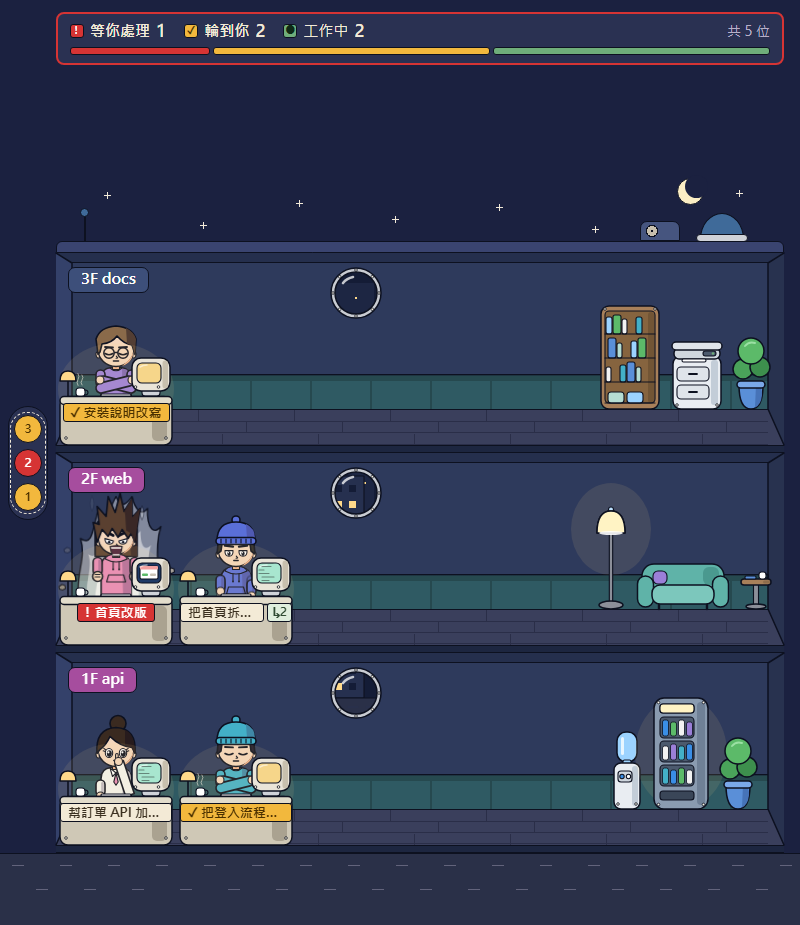
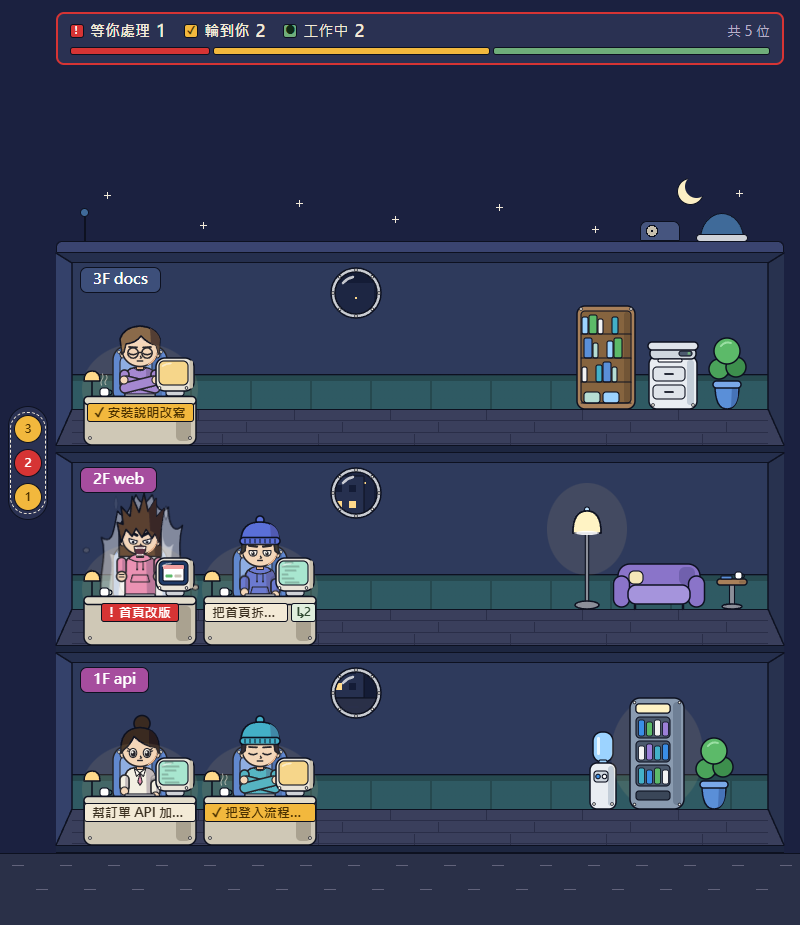
feat: 補上藍色椅子、沙發改紫色、放大螢幕畫面，桌子和家具離兩側斜牆留空間
- 每張桌子後面一把藍色椅子（新的 chairs 圖層，在人後面，空桌也有）；不用藍綠，免得和護牆板混在一起
- 沙發同樣的理由從藍綠改成紫色，抱枕改成奶油色
- 映像管外殼大小不變，畫面放大、邊框變窄
- 桌子、招牌、家具區離樓層左右緣各留 24（GEO.sideGap），樓層寬跟著多 48
- 重拍 README 的白天、夜晚截圖

diff --git a/web/src/objects.ts b/web/src/objects.ts
@@ -1,4 +1,4 @@
-// 圓滾滾機械風物件：桌子、圓窗、右端家具、房間的兩側斜牆。純函式產生 SVG 字串（不碰 DOM），defsSvg() 放進頁面共用的隱藏 <svg>，再用 <use href="#id"> 擺上去。
+// 圓滾滾機械風物件：桌子、椅子、圓窗、右端家具、房間的兩側斜牆。純函式產生 SVG 字串（不碰 DOM），defsSvg() 放進頁面共用的隱藏 <svg>，再用 <use href="#id"> 擺上去。
 // 畫風和人物一樣：黑色線稿（mk 粗、mk-thin 細）、一階硬影（右側一塊加深的實色，不用網點）、圓角、鉚釘。
 // 座標：原點 = 底邊中點，x 往右、y 往上是負的；symbol 的 viewBox = `${-w/2} ${-h} ${w} ${h}`。
 // 顏色規則：一律寫在 style 或 class，不用 fill="色"／stroke="色" 屬性。
@@ -7,7 +7,7 @@ import { circle, ellipse, fill, line, path, rect, tag } from './svg.js';
 
 export type DeskState = 'empty' | 'working' | 'waiting' | 'idle';
 export type FurnitureId = 'waterCooler' | 'vending' | 'plant' | 'bookshelf' | 'copier' | 'sofa' | 'floorLamp' | 'sideTable';
-export type ObjectId = `desk-${DeskState}` | 'window' | FurnitureId;
+export type ObjectId = `desk-${DeskState}` | 'chair' | 'window' | FurnitureId;
 /** 原點 = 底邊中點；symbol 的 viewBox = `${-w/2} ${-h} ${w} ${h}` */
 export interface ObjectSpec { w: number; h: number }
 
@@ -17,6 +17,7 @@ export const OBJECTS: Record<ObjectId, ObjectSpec> = {
   'desk-working': DESK,
   'desk-waiting': DESK,
   'desk-idle': DESK,
+  chair: { w: 56, h: 60 },
   window: { w: 52, h: 52 },
   waterCooler: { w: 28, h: 78 },
   vending: { w: 56, h: 112 },
@@ -56,7 +57,7 @@ export const ROOM_SIDE = tag('svg', { xmlns: 'http://www.w3.org/2000/svg', width
   + path(`M${SIDE} ${BACK} V${FLOOR} H0Z`, undefined, fill('var(--floor-wood)'))
   + line(`M0 0 L${SIDE} ${CEIL} V${BACK} L0 ${FLOOR}`, 'mk'));
 
-// ── 桌子 112×88：奶油白桌身、白色桌面、右側抽屜的硬影；胖胖的映像管螢幕在右邊 x 16–54、y −87 到 −54；正面 y −42 到 −23 留白給 HTML 名牌 ──
+// ── 桌子 112×88：奶油白桌身、白色桌面、右側抽屜的硬影；胖胖的映像管螢幕在右邊 x 16–54、y −87 到 −54（外殼不放大，畫面放大、邊框變窄）；正面 y −42 到 −23 留白給 HTML 名牌 ──
 
 const SCREEN: Record<DeskState, string> = {
   empty: 'var(--screen-off)',
@@ -65,7 +66,7 @@ const SCREEN: Record<DeskState, string> = {
   idle: 'var(--screen-turn)',
 };
 /** 映像管的畫面（DESK_CODE 也切在這個範圍） */
-const SCR = { x: 21, y: -82, w: 24, h: 20 } as const;
+const SCR = { x: 19, y: -84, w: 29, h: 24 } as const;
 
 function desk(st: DeskState): string {
   const lit = st !== 'empty';
@@ -78,13 +79,13 @@ function desk(st: DeskState): string {
   }
   // 映像管：支架、圓角外殼、右側硬影、畫面、兩顆鉚釘
   o += rect(26, -57, 18, 8, 3, 'mk-thin', fill('#cfd2d8'))
-    + rect(16, -87, 38, 33, 9, 'mk', fill('#e9e4d8')) + shade(46.5, -84.5, 5.5, 28, 2.75, '#c8c0ae')
+    + rect(16, -87, 38, 33, 9, 'mk', fill('#e9e4d8')) + shade(49.5, -84.5, 3.5, 28, 1.75, '#c8c0ae')
     + rect(SCR.x, SCR.y, SCR.w, SCR.h, 5, 'mk-thin', fill(SCREEN[st]))
-    + rivet(19.5, -58) + rivet(42.5, -58);
-  if (st === 'waiting') o += tag('g', { class: 'dialog' }, rect(SCR.x + 3, SCR.y + 3, 18, 13, 1.5, 'mk-thin', WHITE)
-    + rect(SCR.x + 3, SCR.y + 3, 18, 3.5, 1, undefined, fill('var(--screen-waiting)'))
-    + rect(SCR.x + 5, SCR.y + 10.5, 6, 2.5, 1, undefined, fill('#5cba69')) + rect(SCR.x + 13, SCR.y + 10.5, 6, 2.5, 1, undefined, fill('#c9c2b6')));
-  if (lit) o += line(`M${SCR.x + 3} ${SCR.y + 4} q3 -2 7 -2`, 'mk-thin', 'stroke:#fff;stroke-width:1.6;opacity:.55'); // 反光
+    + rivet(19.5, -57) + rivet(46.5, -57);
+  if (st === 'waiting') o += tag('g', { class: 'dialog' }, rect(SCR.x + 4, SCR.y + 4, 21, 16, 1.5, 'mk-thin', WHITE)
+    + rect(SCR.x + 4, SCR.y + 4, 21, 4, 1, undefined, fill('var(--screen-waiting)'))
+    + rect(SCR.x + 6.5, SCR.y + 13.5, 7, 3, 1, undefined, fill('#5cba69')) + rect(SCR.x + 15.5, SCR.y + 13.5, 7, 3, 1, undefined, fill('#c9c2b6')));
+  if (lit) o += line(`M${SCR.x + 3.5} ${SCR.y + 5} q3.5 -2.5 8.5 -2.5`, 'mk-thin', 'stroke:#fff;stroke-width:1.6;opacity:.55'); // 反光
   // 桌上：馬克杯、鍵盤
   o += rect(-40, -57, 9, 8.5, 3, 'mk-thin', WHITE) + line('M-31 -55 q3 0 3 2.5 q0 2.5 -3 2.5', 'mk-thin')
     + rect(-15, -51, 30, 2.5, 1, 'mk-thin', fill('#f2f2f2'));
@@ -97,15 +98,24 @@ function desk(st: DeskState): string {
   return o;
 }
 
+// ── 椅子 56×60：藍色圓角椅背（不用藍綠：會和護牆板混在一起）、淺色靠墊、右側硬影、頂端兩顆鉚釘。放在人後面（floor.ts 的 chairs 圖層），下半被桌子擋住 ──
+
+const chair = () =>
+  rect(-27, -59, 54, 59, 14, 'mk', fill('#4f7fd6')) + shade(13, -55, 9, 51, 4.5, '#3c66b3')
+  + rect(-20, -52, 32, 42, 10, 'mk-thin', fill('#82a9ec'))
+  + rivet(-21, -53) + rivet(21, -53);
+
 /** 工作中螢幕上捲動的程式碼。Chromium 不會把 CSS 動畫帶進 <use> 的複本，所以不放在桌子 symbol 裡：
  *  floor.ts 把這段疊在每張桌子的 svg 上（外層 viewBox 和 symbol 相同，座標照桌子），只在工作中顯示。
  *  畫兩份接起來，theme.css 的 code-scroll 一行一行往上捲一份的高度後接回開頭 */
-const CODE_LINES = [[2, 10], [5, 12], [5, 7], [2, 14], [5, 9], [2, 5]];
-const CODE_DY = 3.5; // 行距
-const code = (dy: number) => CODE_LINES.map(([x, w], i) => `M${SCR.x + x!} ${SCR.y + 3.5 + i * CODE_DY + dy} h${w}`).join(' ');
+const CODE_LINES = [[3, 12], [6, 14], [6, 8], [3, 17], [6, 11], [3, 6]];
+const CODE_DY = 4; // 行距
+/** 一份程式碼的高度：theme.css 的 code-scroll 一輪往上捲這麼多 */
+export const CODE_SCROLL = CODE_LINES.length * CODE_DY;
+const code = (dy: number) => CODE_LINES.map(([x, w], i) => `M${SCR.x + x!} ${SCR.y + 4 + i * CODE_DY + dy} h${w}`).join(' ');
 export const DESK_CODE = tag('svg', { class: 'desk-code', width: DESK.w, height: DESK.h, viewBox: `${-DESK.w / 2} ${-DESK.h} ${DESK.w} ${DESK.h}`, style: 'overflow:visible' },
   tag('svg', { x: SCR.x, y: SCR.y, width: SCR.w, height: SCR.h, viewBox: `${SCR.x} ${SCR.y} ${SCR.w} ${SCR.h}` }, // 內層 svg 切在畫面範圍
-    line(`${code(0)} ${code(CODE_LINES.length * CODE_DY)}`, 'mk-thin code-scroll', 'stroke:var(--monitor);opacity:.45')));
+    line(`${code(0)} ${code(CODE_SCROLL)}`, 'mk-thin code-scroll', 'stroke:var(--monitor);opacity:.45')));
 
 // ── 窗：52×52 的鉚釘圓窗。玻璃裡的風景是下面的全景，由 floor.ts 依窗的位置與樓層露出一塊（方形），這裡的圖疊在上面：
 //    先用牆色蓋住方形玻璃在圓外的四個角，再畫金屬窗框、八顆鉚釘和玻璃反光 ──
@@ -255,12 +265,13 @@ const copier = () =>
   + line('M-8 -35 h8 M-8 -17 h8', 'mk', 'stroke-width:1.8')
   + rivet(-20, -4) + rivet(20, -4);
 
-/** 沙發 92×46：藍綠色圓角椅背、兩側扶手、坐墊、紫色抱枕、椅背右側硬影、短腳 */
+/** 沙發 92×46：紫色圓角椅背（不用藍綠：會和護牆板混在一起）、兩側扶手、坐墊、奶油色抱枕、椅背右側硬影、短腳 */
+const SOFA = '#8a74c9';
 const sofa = () =>
-  rect(-41, -45, 82, 32, 12, 'mk', fill('#5fb3a8')) + shade(20, -42, 16, 18, 6, '#4a998f')
-  + rect(-30, -38, 14, 13, 5, 'mk-thin', fill('#9b7fd8'))
-  + rect(-45.5, -33, 16, 31, 8, 'mk', fill('#5fb3a8')) + rect(29.5, -33, 16, 31, 8, 'mk', fill('#5fb3a8'))
-  + rect(-31, -24, 62, 19, 8, 'mk', fill('#7cc7bc'))
+  rect(-41, -45, 82, 32, 12, 'mk', fill(SOFA)) + shade(20, -42, 16, 18, 6, '#7060ad')
+  + rect(-30, -38, 14, 13, 5, 'mk-thin', fill('#f4e6b8'))
+  + rect(-45.5, -33, 16, 31, 8, 'mk', fill(SOFA)) + rect(29.5, -33, 16, 31, 8, 'mk', fill(SOFA))
+  + rect(-31, -24, 62, 19, 8, 'mk', fill('#a594dc'))
   + line('M-24 -4 V0 M24 -4 V0', 'mk', 'stroke-width:2.4');
 
 /** 立燈 28×102：圓頂燈罩加小圓鈕（夜晚亮起、周圍暖光）、鋼管、圓底座 */
@@ -286,6 +297,7 @@ const DRAW: Record<ObjectId, () => string> = {
   'desk-working': () => desk('working'),
   'desk-waiting': () => desk('waiting'),
   'desk-idle': () => desk('idle'),
+  chair,
   window: windowSym,
   waterCooler, vending, plant, bookshelf, copier, sofa, floorLamp, sideTable,
 };

diff --git a/web/src/floor.ts b/web/src/floor.ts
@@ -1,4 +1,4 @@
-// 一層樓：淺盒房間（天花板、後牆、木地板、兩側斜牆）、樓板、招牌「NF 專案名」、圓窗、一排正面桌與名牌、右端一組家具。人物由 building.ts 放進 people 圖層
+// 一層樓：淺盒房間（天花板、後牆、木地板、兩側斜牆）、樓板、招牌「NF 專案名」、圓窗、一排椅子（在人後面）、正面桌與名牌、右端一組家具。人物由 building.ts 放進 people 圖層
 import type { Employee } from '../../src/state/types.js';
 import { GEO, plateText, seatCenter, type Floor } from './floors.js';
 import { furnitureSet, layoutSet, SIGN_MAX_W, SIGN_X, windowView, windowXs } from './furniture.js';
@@ -9,6 +9,7 @@ const SVG_NS = 'http://www.w3.org/2000/svg';
 const WIN_Y = 66; // 圓窗底邊：窗頂 14 與招牌同高，窗在坐著的人頭上
 const FURN_Y = 156; // 家具的地板線：與人物腳底同一條（在桌子後面）
 const DESK_ORIGIN = { x: GEO.seatW / 2, y: 192 }; // 桌子的原點（底邊中點）在桌子元素內的位置；桌面落在 y 143.5
+const CHAIR_Y = 152; // 椅子底邊：下半被桌子擋住，椅背從人的肩膀兩側和頭旁邊露出來
 
 /** <svg class="obj"><use href="#id"/></svg>，絕對定位成原點（物件底邊中點）在 (x, y)（父元素座標）。
  *  symbol 的 viewBox 是 `${-w/2} ${-h} ${w} ${h}`，所以外層 svg 用 0 0 w h、<use> 給 w×h，symbol 自己的 viewBox 就把原點對到底邊中點 */
@@ -60,7 +61,7 @@ function shell(): HTMLElement[] {
 
 const deskState = (e: Employee | null): DeskState => (e ? e.status : 'empty');
 
-interface DeskEl { el: HTMLElement; use: SVGUseElement; plate: HTMLElement; text: HTMLElement; helpers: HTMLElement }
+interface DeskEl { el: HTMLElement; chair: SVGSVGElement; use: SVGUseElement; plate: HTMLElement; text: HTMLElement; helpers: HTMLElement }
 
 export class FloorView {
   /** 寬度由 building.ts 統一給（各層同寬），不自己捲動 */
@@ -68,17 +69,18 @@ export class FloorView {
   readonly people = div('people');
   private inner = div('floor-in');
   private sign = div('sign');
+  private chairs = div('chairs'); // 每張桌子一把，空桌也有
   private deskRow = div('desks');
   private desks: DeskEl[] = [];
   private windows = div('windows');
-  private furniture = div('furniture'); // 貼右緣、寬 GEO.furnitureW
+  private furniture = div('furniture'); // 離右緣 GEO.sideGap、寬 GEO.furnitureW
   private furnKey: string | null = null; // 目前擺的是哪個 roomKey 的那組
   private f: Floor | null = null;
 
   constructor(hooks: { hover(e: Employee, at: DOMRect): void; unhover(): void }) {
     this.sign.style.left = `${SIGN_X}px`;
     this.sign.style.maxWidth = `${SIGN_MAX_W}px`; // 到第一扇窗之前
-    this.inner.append(...shell(), this.windows, this.sign, this.furniture, this.people, this.deskRow);
+    this.inner.append(...shell(), this.windows, this.sign, this.furniture, this.chairs, this.people, this.deskRow);
     this.el.append(this.inner); // 內容座標與 seatCenter 同一套
     // 滑過人物：依 data-key 找這層目前的佔用者
     const personOf = (t: EventTarget | null): HTMLElement | null => (t instanceof Element ? t.closest<HTMLElement>('.person') : null);
@@ -104,16 +106,22 @@ export class FloorView {
     this.sign.textContent = `${f.level}F ${f.title}`;
     this.sign.title = f.key || f.title;
     this.sign.style.backgroundColor = f.color; // 專案色（不透明）
-    while (this.desks.length > f.desks) this.desks.pop()!.el.remove();
+    while (this.desks.length > f.desks) {
+      const d = this.desks.pop()!;
+      d.el.remove();
+      d.chair.remove();
+    }
     while (this.desks.length < f.desks) {
       const desk = div('desk'), pic = useObj('desk-empty', DESK_ORIGIN.x, DESK_ORIGIN.y), plate = div('plate'), text = el('span'), helpers = el('b', 'helpers');
       pic.insertAdjacentHTML('beforeend', DESK_CODE); // 捲動的程式碼疊在螢幕上（CSS 動畫在 symbol 裡不會動），只在工作中顯示
       helpers.title = '工作中的助理';
       plate.append(text, helpers);
       desk.append(pic, plate); // 圖在名牌之前：名牌（HTML）疊在桌子正面上
-      desk.style.left = `${seatCenter(this.desks.length) - GEO.seatW / 2}px`; // 一格寬 120
+      const x = seatCenter(this.desks.length), chair = useObj('chair', x, CHAIR_Y);
+      desk.style.left = `${x - GEO.seatW / 2}px`; // 一格寬 120
+      this.chairs.append(chair);
       this.deskRow.append(desk);
-      this.desks.push({ el: desk, use: pic.firstElementChild as SVGUseElement, plate, text, helpers });
+      this.desks.push({ el: desk, chair, use: pic.firstElementChild as SVGUseElement, plate, text, helpers });
     }
     f.seats.forEach((s, i) => {
       const d = this.desks[i]!;

diff --git a/web/src/floors.ts b/web/src/floors.ts
@@ -2,10 +2,10 @@ import type { Employee } from '../../src/state/types.js';
 import { nameplate, platePrefix, projectColor, roomKey, shortPath, workingCount } from './view.js';
 
 // ---- 剖面大樓的尺寸（CSS px）----
-export const GEO = { floorH: 200, slab: 8, seatW: 120, furnitureW: 200, groundH: 72, panelW: 40, gutter: 56, rightMargin: 16 } as const;
+export const GEO = { floorH: 200, slab: 8, seatW: 120, furnitureW: 200, groundH: 72, panelW: 40, gutter: 56, rightMargin: 16, sideGap: 24 } as const; // sideGap：桌子、招牌、家具區離樓層左右緣的距離（兩側斜牆寬 16）
 
 /** 第 i 個座位的中心 x（樓層內座標） */
-export const seatCenter = (i: number): number => i * GEO.seatW + GEO.seatW / 2;
+export const seatCenter = (i: number): number => GEO.sideGap + i * GEO.seatW + GEO.seatW / 2;
 
 /** 座位只坐真員工；助理只是主人名牌旁的小標 */
 export interface Seat { index: number; occ: Employee | null }
@@ -46,7 +46,7 @@ export function floorAlert(f: Floor): Alert {
 
 /** 全部樓層共用的寬度：至少撐滿可用寬，桌數最多那層放不下就往右長（整棟樓變寬、整頁橫向捲動）；沒有樓層（空大廳）就是可用寬 */
 export const buildingWidth = (plan: Floor[], avail: number): number =>
-  plan.length ? Math.max(avail, Math.max(...plan.map((f) => f.desks)) * GEO.seatW + GEO.furnitureW) : avail;
+  plan.length ? Math.max(avail, Math.max(...plan.map((f) => f.desks)) * GEO.seatW + GEO.furnitureW + 2 * GEO.sideGap) : avail;
 
 /** 桌上名牌：標題加狀態前綴（底色直接依 e.status）；helpers 是工作中的助理數（名牌旁的「↳N」，0 不顯示） */
 export function plateText(e: Employee): { text: string; helpers: number } {

diff --git a/test/furniture.test.ts b/test/furniture.test.ts
@@ -54,24 +54,25 @@ describe('後牆窗', () => {
     const xs = F.windowXs(w);
     expect(xs).toEqual([300, 540, 780]);
     expect(xs[0]! - F.WIN.half).toBeGreaterThanOrEqual(F.SIGN_X + F.SIGN_MAX_W);
-    for (const c of xs) expect(c + F.WIN.half).toBeLessThanOrEqual(w - GEO.furnitureW);
+    for (const c of xs) expect(c + F.WIN.half).toBeLessThanOrEqual(w - GEO.furnitureW - GEO.sideGap);
   });
 
   it('位置只跟樓層寬有關：變寬只在後面加窗；太窄就沒有窗', () => {
     expect(F.windowXs(400)).toEqual([]);
     const a = F.windowXs(1000), b = F.windowXs(2000);
     expect(b.slice(0, a.length)).toEqual(a);
-    expect(F.windowXs(F.WIN.first + F.WIN.half + GEO.furnitureW)).toEqual([F.WIN.first]);
-    expect(F.windowXs(F.WIN.first + F.WIN.half + GEO.furnitureW - 1)).toEqual([]);
+    const fits = F.WIN.first + F.WIN.half + GEO.furnitureW + GEO.sideGap;
+    expect(F.windowXs(fits)).toEqual([F.WIN.first]);
+    expect(F.windowXs(fits - 1)).toEqual([]);
   });
 
   it('窗寬不超過 2 × WIN.half', () => {
     expect(OBJECTS.window.w).toBeLessThanOrEqual(2 * F.WIN.half);
   });
 
-  it('招牌從左緣 12 開始，最大寬到第一扇窗之前', () => {
-    expect(F.SIGN_X).toBe(12);
-    expect(F.SIGN_MAX_W).toBe(240);
+  it('招牌和第一張桌子一樣從左緣 sideGap 開始，最大寬到第一扇窗之前', () => {
+    expect(F.SIGN_X).toBe(GEO.sideGap);
+    expect(F.SIGN_MAX_W).toBe(F.WIN.first - F.WIN.half - 12 - GEO.sideGap);
     expect(F.SIGN_X + F.SIGN_MAX_W).toBeLessThan(F.WIN.first - F.WIN.half);
   });
 });

diff --git a/test/floors.test.ts b/test/floors.test.ts
@@ -1,5 +1,5 @@
 import { expect, test } from 'vitest';
-import { buildingPlan, buildingWidth, floorAlert, floorPlan, plateText, seatCenter, visibleSpan, atBottom, withLeaving, vacate } from '../web/src/floors.js';
+import { buildingPlan, buildingWidth, GEO, floorAlert, floorPlan, plateText, seatCenter, visibleSpan, atBottom, withLeaving, vacate } from '../web/src/floors.js';
 import type { Floor } from '../web/src/floors.js';
 import { PROJECT_COLORS } from '../web/src/view.js';
 import type { Assistant, Employee } from '../src/state/types.js';
@@ -109,14 +109,14 @@ test('plateText：狀態前綴，helpers 只算工作中的助理', () => {
   expect(plateText(emp('a', 'working', { title: '結帳', assistants: three }))).toEqual({ text: '結帳', helpers: 2 });
 });
 
-test('seatCenter', () => {
-  expect(seatCenter(0)).toBe(60);
-  expect(seatCenter(2)).toBe(300);
+test('seatCenter：左邊先留 GEO.sideGap，桌子才不貼著左牆', () => {
+  expect(seatCenter(0)).toBe(GEO.sideGap + 60);
+  expect(seatCenter(2)).toBe(GEO.sideGap + 300);
 });
 
 test('buildingWidth：各層共用桌數最多那層的寬度，沒有樓層時是可用寬', () => {
   const f = (desks: number): Floor => ({ ...floorOf(), desks });
-  expect(buildingWidth([f(3), f(9)], 1000)).toBe(9 * 120 + 200);
+  expect(buildingWidth([f(3), f(9)], 1000)).toBe(9 * 120 + 200 + 2 * GEO.sideGap); // 左右各留 sideGap
   expect(buildingWidth([f(3), f(2)], 1000)).toBe(1000);
   expect(buildingWidth([], 1000)).toBe(1000);
   // 空大廳照舊撐滿可用寬，窄螢幕也不撐寬整頁

diff --git a/web/src/styles/building.css b/web/src/styles/building.css
@@ -67,9 +67,9 @@ body { margin: 0; min-height: 100vh; display: flex; flex-direction: column; back
    top 14：0 號座位輪到你的泡泡頂在 y 44，招牌底在 40，不重疊 */
 .sign { top: 14px; height: 26px; padding: 0 12px; border: 1.6px solid var(--ink); border-radius: 7px; box-sizing: border-box;
   color: #fff; font: bold 15px/22.8px system-ui, "Microsoft JhengHei", sans-serif; white-space: nowrap; overflow: hidden; text-overflow: ellipsis; }
-.people, .desks, .windows { inset: 0; pointer-events: none; }
-/* 右端家具區：貼樓層右緣、寬 200（GEO.furnitureW） */
-.furniture { top: 0; right: 0; width: 200px; height: 200px; pointer-events: none; }
+.chairs, .people, .desks, .windows { inset: 0; pointer-events: none; }
+/* 右端家具區：離樓層右緣 24（GEO.sideGap）、寬 200（GEO.furnitureW） */
+.furniture { top: 0; right: 24px; width: 200px; height: 200px; pointer-events: none; }
 .obj { position: absolute; display: block; overflow: visible; }
 .desk { position: absolute; top: 0; width: 120px; height: 200px; }
 .desk .desk-code { display: none; }

diff --git a/web/src/furniture.ts b/web/src/furniture.ts
@@ -38,7 +38,7 @@ export function layoutSet(set: (typeof SETS)[number]): (FurnItem & { x: number }
 }
 
 // ---------- 後牆：招牌區與窗 ----------
-export const SIGN_X = 12; // 招牌左緣（樓層左緣留 12）
+export const SIGN_X = GEO.sideGap; // 招牌左緣：和第一張桌子一樣離左牆一段
 /** 窗：第一扇中心 300、之後每 240 一扇；half = 留給一扇窗的半寬（圓窗本身半寬 26） */
 export const WIN = { first: 300, step: 240, half: 36 } as const;
 /** 招牌最大寬：到第一扇窗之前再留 12 */
@@ -47,7 +47,7 @@ export const SIGN_MAX_W = WIN.first - WIN.half - 12 - SIGN_X;
 /** 樓層寬 width 時後牆每扇窗的中心 x；從招牌區右邊開始，不壓到右端家具區。只跟寬度有關 */
 export function windowXs(width: number): number[] {
   const out: number[] = [];
-  for (let x = WIN.first; x + WIN.half <= width - GEO.furnitureW; x += WIN.step) out.push(x);
+  for (let x = WIN.first; x + WIN.half <= width - GEO.furnitureW - GEO.sideGap; x += WIN.step) out.push(x);
   return out;
 }
 

diff --git a/web/src/figure.ts b/web/src/figure.ts
@@ -226,7 +226,7 @@ export const WARP_SVG = tag('svg', { class: 'warp', ...SVG_ATTRS },
   + g('streak', line('M30 -8 V72', 'streak-glow', 'stroke:#8fd8ff;stroke-width:6;stroke-linecap:round;opacity:.6')
     + line('M30 -8 V72', 'streak-core', 'stroke:#fff;stroke-width:2;stroke-linecap:round')));
 
-/** 一個人物（照美術定稿，坐著時不畫椅子）：氣場（排在人後面）、人（腿、後髮、身體、打字／握拳／抱胸的手、頭、推鼻子和點額的手）、小石子；
+/** 一個人物（照美術定稿，人物本身不畫椅子：椅子在 floor.ts 的 chairs 圖層）：氣場（排在人後面）、人（腿、後髮、身體、打字／握拳／抱胸的手、頭、推鼻子和點額的手）、小石子；
  *  顯示哪個表情、姿勢交給 CSS 依 data-act／data-fx 決定。.fig 的 transform 給站起來用，抖動放在裡面的 .shake */
 export function figureSvg(look: Look): string {
   const fig = g('fig', g('shake', leg('l') + leg('r') + g('hair-back', hair(look).back)

diff --git a/web/src/styles/theme.css b/web/src/styles/theme.css
@@ -103,9 +103,9 @@
 .mk-thin { stroke: var(--fig-ink); stroke-width: 1.1; }
 .ol { stroke: var(--fig-ink); stroke-width: 1.6; }
 
-/* 工作中螢幕上的程式碼（objects.ts 的 DESK_CODE）：一行一行往上捲，捲完一份（6 行 × 行距 3.5 = 21）接回開頭 */
+/* 工作中螢幕上的程式碼（objects.ts 的 DESK_CODE）：一行一行往上捲，捲完一份（objects.ts 的 CODE_SCROLL：6 行 × 行距 4 = 24）接回開頭 */
 .code-scroll { animation: code-scroll 4.8s steps(6) infinite; }
-@keyframes code-scroll { to { transform: translateY(-21px); } }
+@keyframes code-scroll { to { transform: translateY(-24px); } }
 @media (prefers-reduced-motion: reduce) {
   .code-scroll { animation: none; }
 }

diff --git a/docs/design.md b/docs/design.md
@@ -61,8 +61,8 @@ Claude Code ─hook─▶ src/hook/send.ts ─POST /events─▶ src/server ─r
 - **助理不佔座位**：只在主人名牌旁顯示「↳N」，N 是工作中的數量，詳細內容看資訊卡。電梯燈、狀態列、分頁標題都不算助理。
 - **沒有電梯和走路**：人在座位上瞬移登場（直向光痕閃兩下，人從窄變寬、稍微超過再彈回，兩邊的殘影收回本體，約 0.35 秒）；退場時站起來雙指點額 0.3 秒，再閃三下、橫向壓成一條線，留下光痕後消失（共約 0.8 秒）。開頁面和重新連線時大家直接坐好，不播動畫。電梯進出原本是前端最複雜、又沒有測試的部分，所以拿掉，換成好維護。
 - **生命力來自狀態動作**：工作中殘像打字（兩層半透明殘影，約每 7 秒停下來推一次鼻子，螢幕程式碼一行一行往上捲；三種狀態裡最安靜），等你處理站起來爆氣（半透明白色的火焰氣場，白天疊在奶油色牆上看不清楚，所以外圍加一圈冷藍光暈；只有角色自己抖動、整層樓不震動；紅色只留給名牌），輪到你抱胸閉眼冥想（約每 6 秒睜開右眼、挑起右眉瞄觀看者約 0.5 秒；減少動態時停在閉眼）。每個人的動作用 sessionId 算出的延遲錯開（`view.ts` 的 `motionDelay`，`person.ts` 設成 CSS 變數 `--delay`），不會像整排機器人同步。
-- **每層樓是淺盒舞台**：看得到天花板、後牆（下段是藍綠色護牆板）、木地板和兩側斜牆，人和家具仍然正面朝向觀看者。樓層寬度不固定，所以外殼的中段用 CSS 畫，兩側寬 16 的斜牆（連同天花板和地板的斜角）是一張固定大小的 SVG（`objects.ts` 的 `ROOM_SIDE`），右邊那張用 CSS 鏡像。座位、桌子、名牌、招牌和家具區的位置都沒有因此改變。
-- **畫風**：介面（名牌、招牌、狀態列、電梯面板、資訊卡）還是紙張風。環境是圓滾滾的機械風，和人物同一套畫法：黑色線稿、圓角、鉚釘、一階硬影（右側一塊加深的實色，不用網點）；奶油白桌子配胖胖的映像管螢幕、鉚釘圓窗、圓頂水塔、圓頭立燈。人物是鳥山明前期風的 Q 版，造型照「Claude 辦公室美術設計稿」artifact 的定稿：大頭（寬橢圓臉，瀏海壓到眉毛、五官在臉的下半部）、黑色線稿（外輪廓 `ol` 比內線粗）、一階硬影（同色加深的實色，不用網點）、中明度飽和色的衣服、自然色的頭髮、大塊稜角髮束、只露前臂、坐著時不畫椅子；眼型（角度眼加粗斜眉、大圓眼加睫毛）、髮型、髮色、衣服都由 sessionId 雜湊決定。不放原作的角色、招牌髮型、標誌或名字。
+- **每層樓是淺盒舞台**：看得到天花板、後牆（下段是藍綠色護牆板）、木地板和兩側斜牆，人和家具仍然正面朝向觀看者。樓層寬度不固定，所以外殼的中段用 CSS 畫，兩側寬 16 的斜牆（連同天花板和地板的斜角）是一張固定大小的 SVG（`objects.ts` 的 `ROOM_SIDE`），右邊那張用 CSS 鏡像。桌子、招牌和家具區離樓層左右緣各留 24（`GEO.sideGap`），不貼著斜牆；樓層寬也跟著多 48。
+- **畫風**：介面（名牌、招牌、狀態列、電梯面板、資訊卡）還是紙張風。環境是圓滾滾的機械風，和人物同一套畫法：黑色線稿、圓角、鉚釘、一階硬影（右側一塊加深的實色，不用網點）；奶油白桌子配胖胖的映像管螢幕（畫面大、邊框窄）、每張桌子後面一把藍色椅子（不用藍綠，免得和護牆板混在一起；空桌也有，畫在人後面，椅背從人的兩側露出來）、鉚釘圓窗、圓頂水塔、圓頭立燈。人物是鳥山明前期風的 Q 版，造型照「Claude 辦公室美術設計稿」artifact 的定稿：大頭（寬橢圓臉，瀏海壓到眉毛、五官在臉的下半部）、黑色線稿（外輪廓 `ol` 比內線粗）、一階硬影（同色加深的實色，不用網點）、中明度飽和色的衣服、自然色的頭髮、大塊稜角髮束、只露前臂、人物本身不畫椅子（椅子是桌子那一層的物件）；眼型（角度眼加粗斜眉、大圓眼加睫毛）、髮型、髮色、衣服都由 sessionId 雜湊決定。不放原作的角色、招牌髮型、標誌或名字。
 - **日夜依本機時間**：6:00–18:00 是白天，可以用 `?time=day|night` 固定。不看系統深色模式，切換也沒有過渡動畫。
 
 ## 做到了也算失敗
